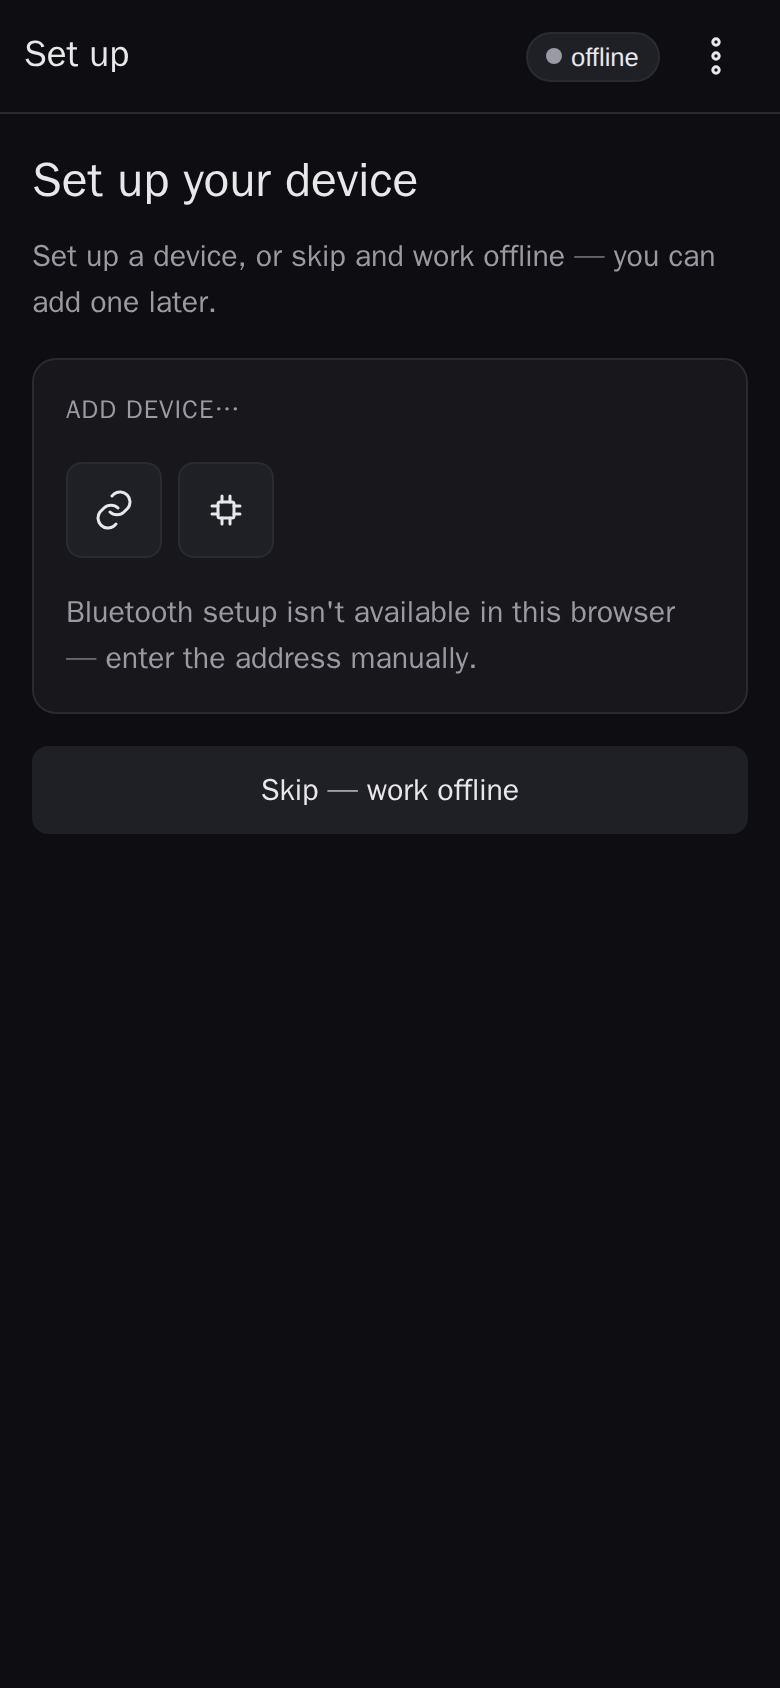
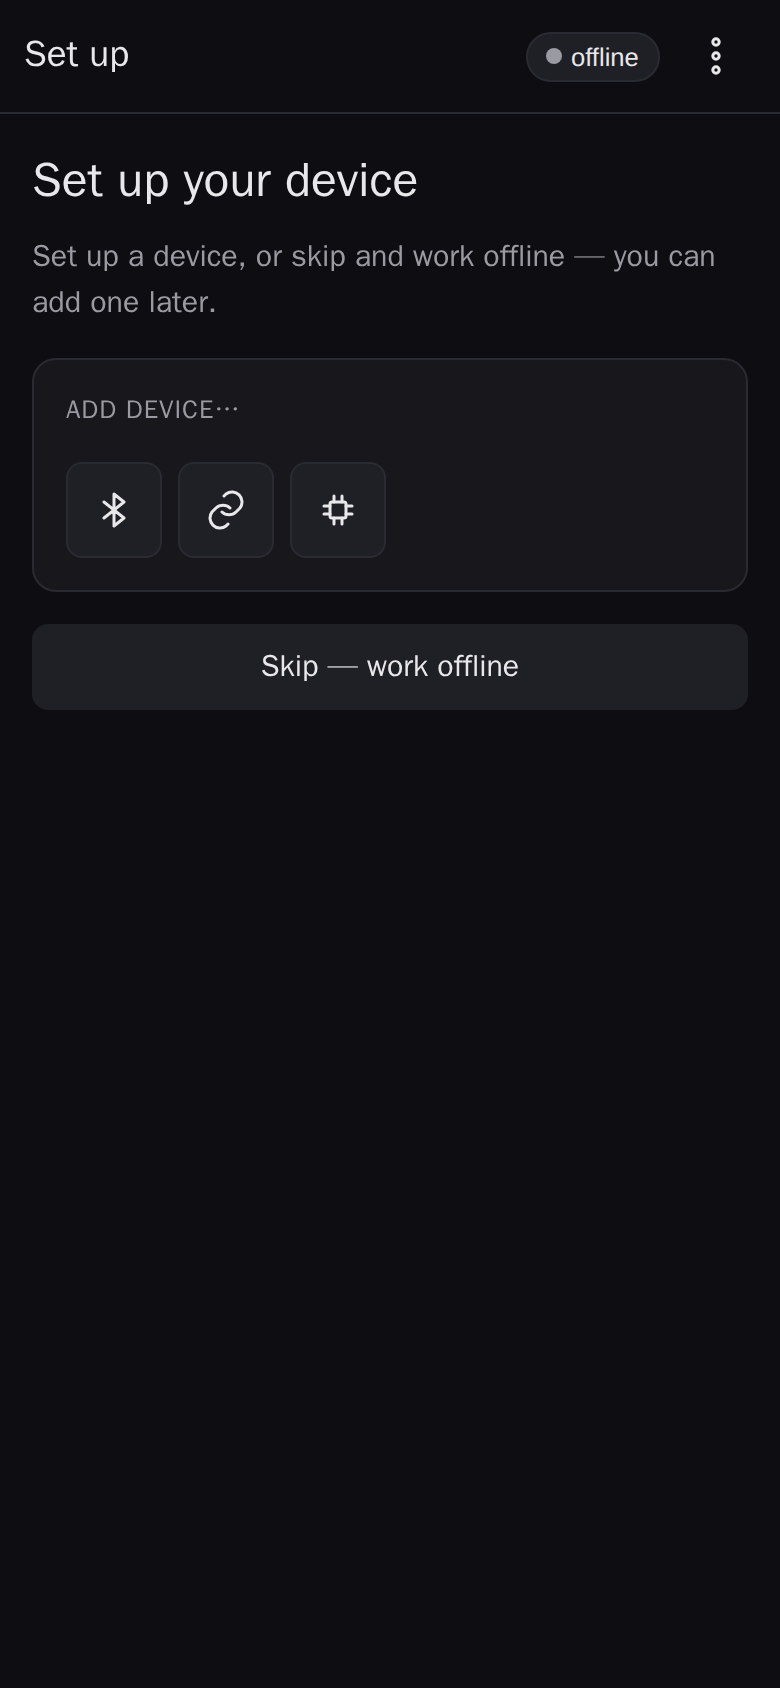
FUG-103: drive demo seam from capturer — real camera/device/BLE screenshots
Capturer passes ?demo=<scenario> per shot (fresh context each, so no drawer/nav
contamination). Catalog: capture=device,camera (simulated fixture camera feed),
connect-device=bluetooth (BLE add button shows), device-management=device
(connected 'Living Room' + 24ms RTT). Force client.isConnected in the device
demo so the sheet renders the RTT.

diff --git a/docs/user-guide/index.html b/docs/user-guide/index.html
@@ -166,7 +166,7 @@
 </div>
 </article>
 <article class="topic" id="capture">
-<div class="topic-figure"><svg viewBox="0 0 340 600" role="img" aria-label="Mapping a fixture with the camera screen" class="figure-svg" xmlns="http://www.w3.org/2000/svg"><rect x="8" y="8" width="324" height="584" rx="28" fill="var(--fig-bg)" stroke="var(--fig-border)" stroke-width="2" /><text x="28" y="52" font-size="17" font-weight="700" fill="var(--fig-text)">Splanc</text><rect x="232" y="36" width="80" height="22" rx="11" fill="var(--fig-panel)" /><text x="272" y="51" text-anchor="middle" font-size="11" fill="var(--fig-dim)">Device</text><line x1="20" y1="72" x2="320" y2="72" stroke="var(--fig-border)" /><text x="28" y="112" font-size="16" font-weight="700" fill="var(--fig-accent)">Mapping a fixture with the camera</text><text x="28" y="140" font-size="12" fill="var(--fig-dim)">Point the camera at a running fixture to</text><text x="28" y="160" font-size="12" fill="var(--fig-dim)">reconstruct its LEDs in 3D.</text><line x1="20" y1="520" x2="320" y2="520" stroke="var(--fig-border)" /><circle cx="70.0" cy="545" r="5" fill="var(--fig-accent)" /><text x="70.0" y="565" text-anchor="middle" font-size="11" fill="var(--fig-accent)">Maps</text><circle cx="170.0" cy="545" r="5" fill="var(--fig-dim)" /><text x="170.0" y="565" text-anchor="middle" font-size="11" fill="var(--fig-dim)">Effects</text><circle cx="270.0" cy="545" r="5" fill="var(--fig-dim)" /><text x="270.0" y="565" text-anchor="middle" font-size="11" fill="var(--fig-dim)">Device</text></svg></div>
+<div class="topic-figure"><img class="shot" src="img/capture.png" alt="Mapping a fixture with the camera screen" loading="lazy" /></div>
 <div class="topic-body">
 <h3>Mapping a fixture with the camera</h3>
 <p class="summary">Point the camera at a running fixture to reconstruct its LEDs in 3D.</p>

diff --git a/web/src/ui/guide/catalog.ts b/web/src/ui/guide/catalog.ts
@@ -79,6 +79,10 @@ export interface GuideTopic {
   /** Optional extra settle time (ms) before the shot, for screens with a heavier
    * mount (3D solve, editor compile). */
   screenshotWaitMs?: number;
+  /** Optional demo/capture scenario (see src/demo/init.ts) to activate via
+   * `?demo=` before the shot — mocks hardware so panes that need a device /
+   * camera / Bluetooth render: "device", "camera", "bluetooth". */
+  screenshotDemo?: string;
 }
 
 /** Human labels for each tab/area, used as section headers in both outputs. */
@@ -156,6 +160,7 @@ export const GUIDE_TOPICS: GuideTopic[] = [
     route: "/onboard",
     summary: "Link a controller over Bluetooth or by address — or start offline.",
     screenshot: "#/onboard",
+    screenshotDemo: "bluetooth",
     sections: [
       {
         body: [
@@ -251,6 +256,8 @@ export const GUIDE_TOPICS: GuideTopic[] = [
     tab: "maps",
     route: "/capture",
     summary: "Point the camera at a running fixture to reconstruct its LEDs in 3D.",
+    screenshot: "#/capture",
+    screenshotDemo: "device,camera",
     sections: [
       {
         body: [
@@ -404,6 +411,7 @@ export const GUIDE_TOPICS: GuideTopic[] = [
     summary: "Connect, rename, re-discover, and forget the controllers you know.",
     screenshot: "#/maps",
     screenshotClick: ".tab[data-tab='device']",
+    screenshotDemo: "device",
     screenshotWaitMs: 700,
     sections: [
       {

diff --git a/web/tests/tools/genUserGuide.ts b/web/tests/tools/genUserGuide.ts
@@ -465,12 +465,13 @@ const HTML_CSS = `      :root {
  * order, 2-space JSON) so it's a freshness-gated output like the md/html. */
 function renderShotsManifest(): string {
   const shots = GUIDE_TOPICS.filter((t) => t.screenshot).map((t) => {
-    const shot: { id: string; route: string; click?: string; waitMs?: number } = {
+    const shot: { id: string; route: string; click?: string; waitMs?: number; demo?: string } = {
       id: t.id,
       route: t.screenshot as string,
     };
     if (t.screenshotClick) shot.click = t.screenshotClick;
     if (t.screenshotWaitMs) shot.waitMs = t.screenshotWaitMs;
+    if (t.screenshotDemo) shot.demo = t.screenshotDemo;
     return shot;
   });
   return JSON.stringify(shots, null, 2) + "\n";

diff --git a/web/src/demo/init.ts b/web/src/demo/init.ts
@@ -38,6 +38,9 @@ function setupConnectedDevice(): void {
   deviceStore.setActive(dev.id);
   const client = new LedMapperClient(dev.wssUrl);
   client.clock.update({ offsetMs: 0, rttMs: 24 });
+  // The device sheet only shows the RTT when the active client reports connected
+  // (connectedMeta in deviceSheet.ts). There's no real socket here, so force it.
+  Object.defineProperty(client, "isConnected", { configurable: true, get: () => true });
   appState.setDemoConnection(client, {
     state: "connected",
     text: "connected",

diff --git a/docs/capture_user_guide.py b/docs/capture_user_guide.py
@@ -111,7 +111,11 @@ def capture(dist: Path, shots: list[dict], out_dir: Path) -> None:
                 ctx.add_init_script(SEED_JS)
                 page = ctx.new_page()
                 sid, route = shot["id"], shot["route"]
-                url = base + (route if route.startswith("#") else "#" + route.lstrip("/"))
+                hashpart = route if route.startswith("#") else "#" + route.lstrip("/")
+                # A `demo` scenario drives the app's ?demo= capture seam (mocked
+                # hardware: connected device + RTT, camera frame, Bluetooth).
+                demo = shot.get("demo")
+                url = base + (f"?demo={demo}" if demo else "") + hashpart
                 try:
                     page.goto(url, wait_until="networkidle", timeout=15000)
                 except Exception:

diff --git a/docs/user-guide.md b/docs/user-guide.md
@@ -99,6 +99,8 @@ installations.
 
 _Point the camera at a running fixture to reconstruct its LEDs in 3D._
 
+![Mapping a fixture with the camera — Splanc app screen](user-guide/img/capture.png)
+
 Capture is where a physical fixture becomes a map. The connected device runs a special addressing
 pattern — each LED blinks out its own index in a gray-coded sequence — and the phone camera decodes
 those blinks frame by frame, building up a per-LED position estimate as you move the phone around
